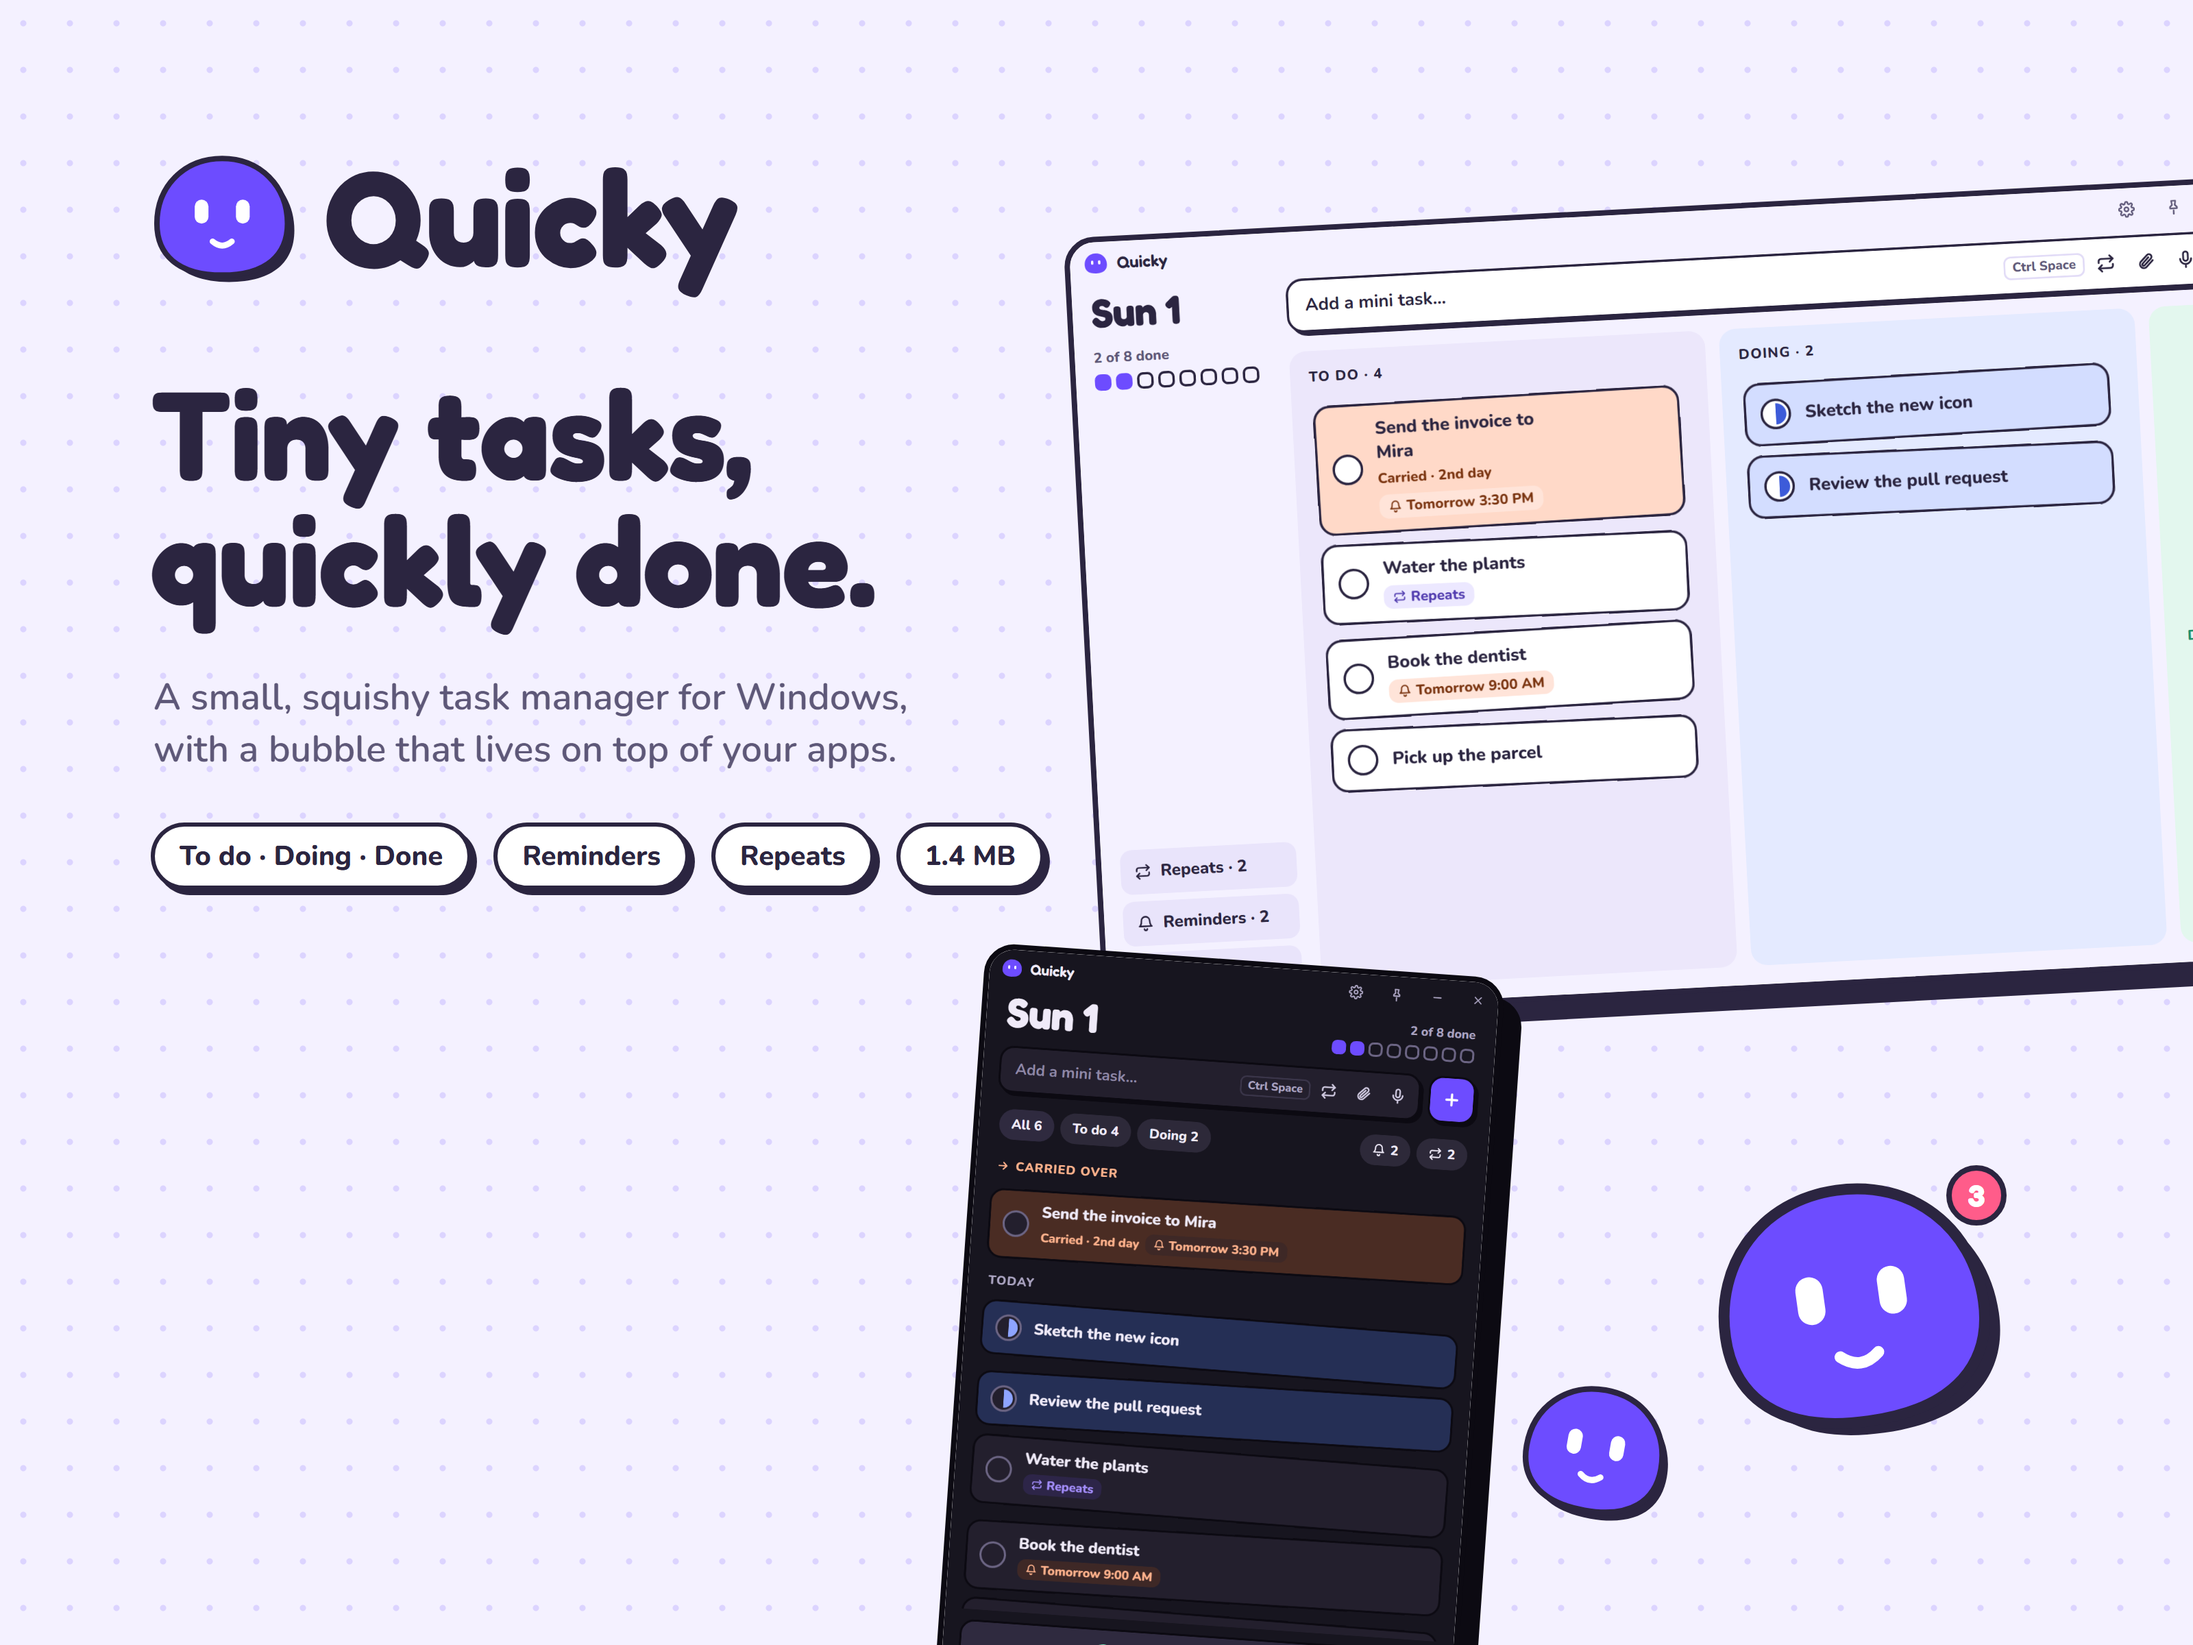
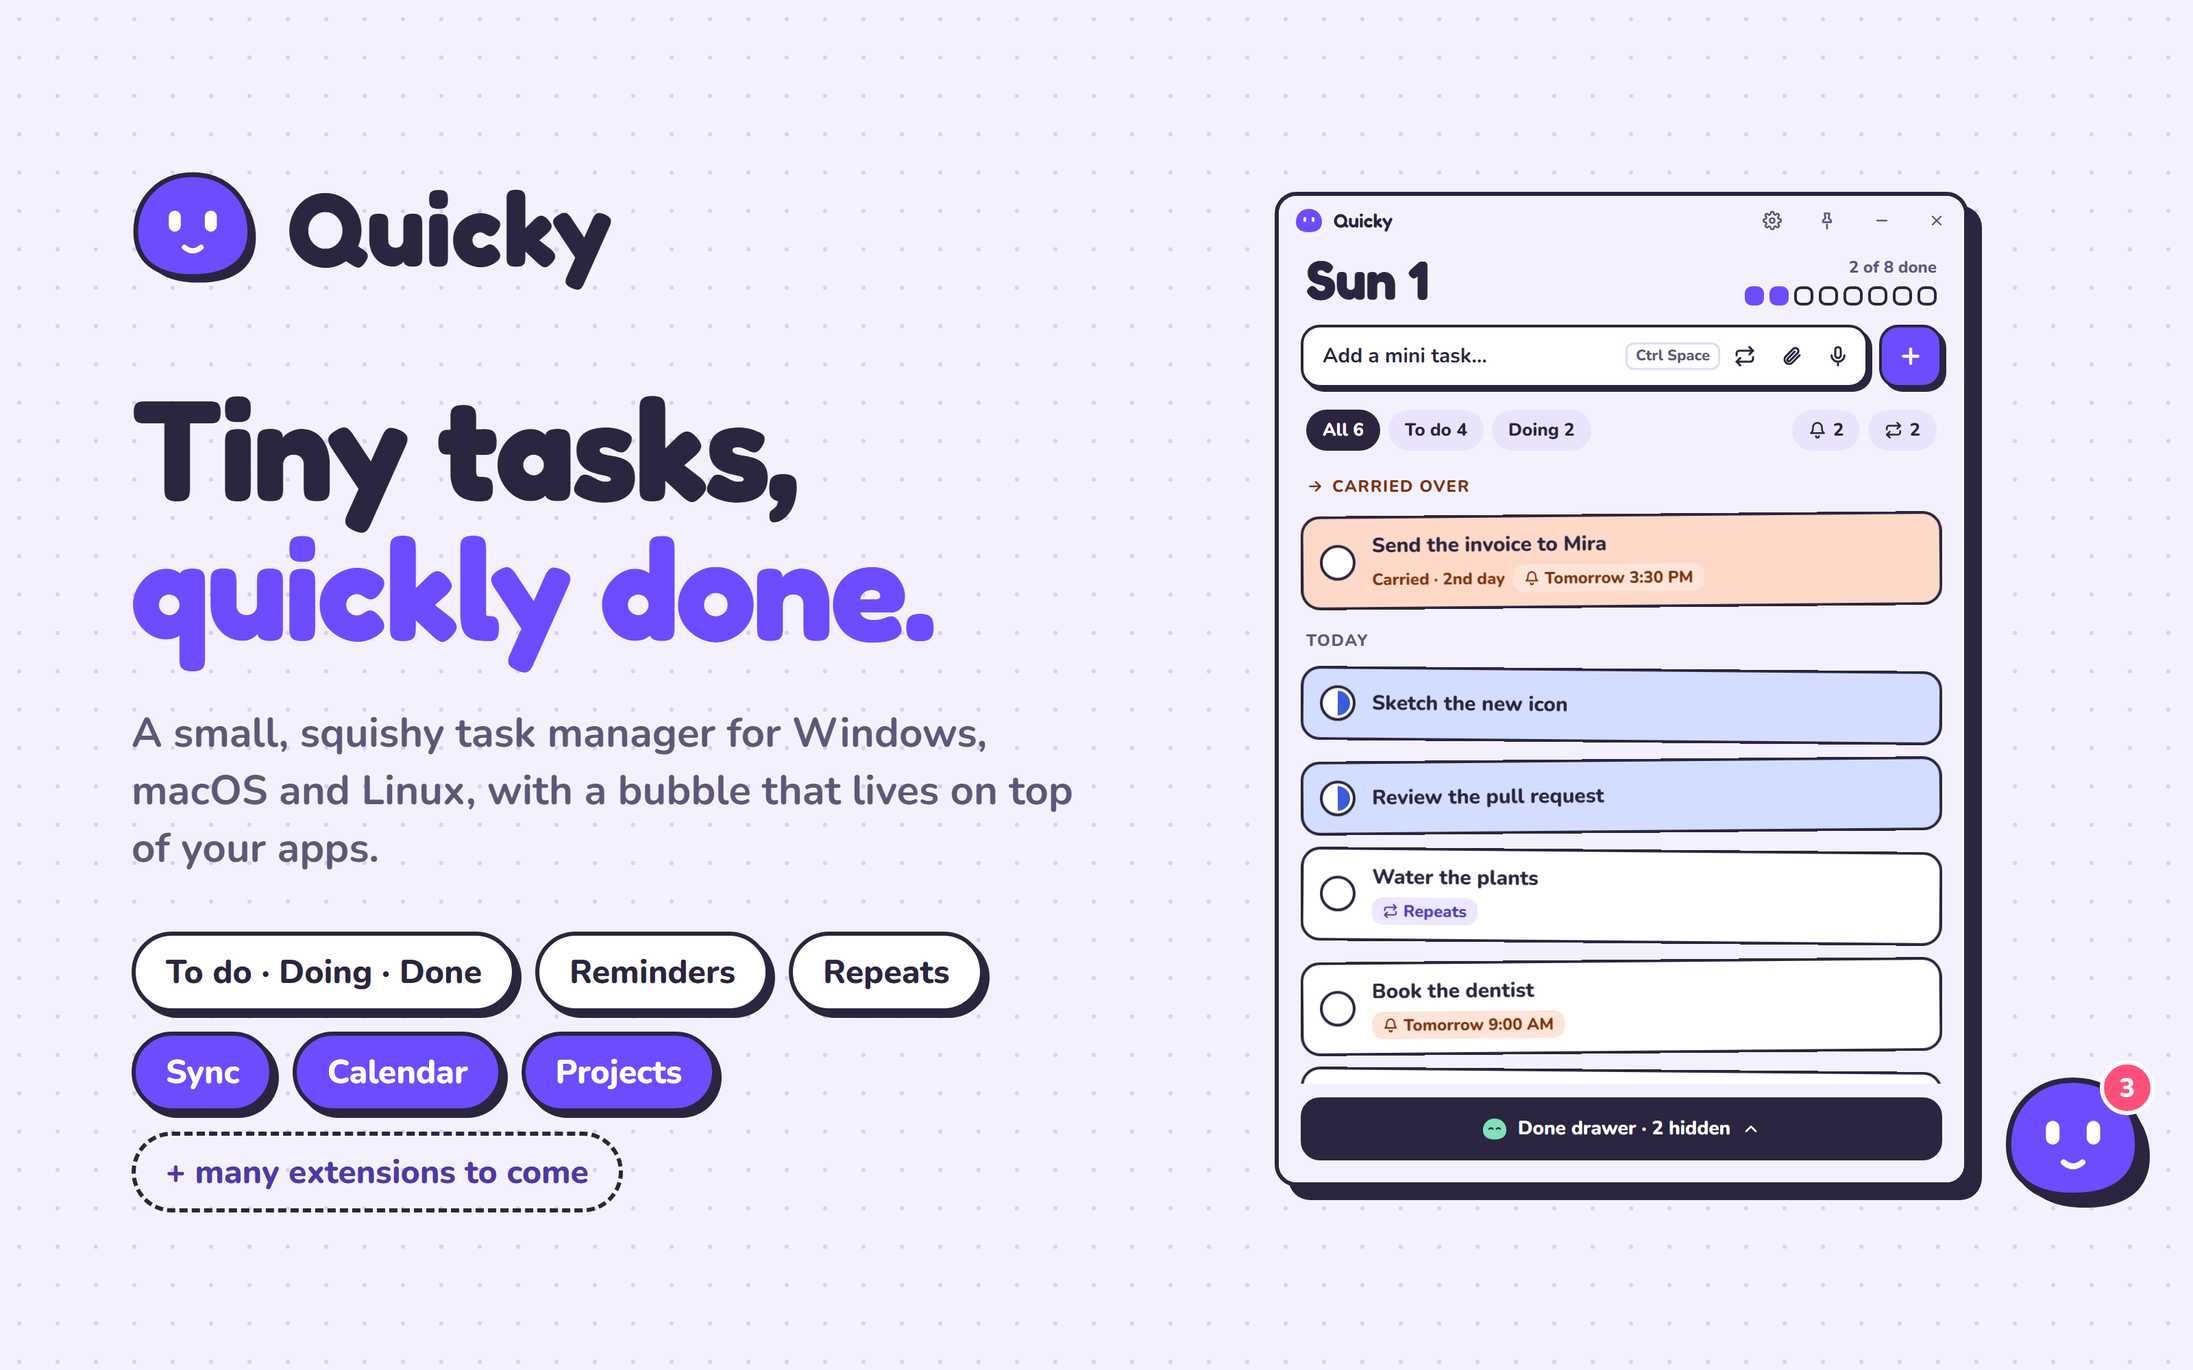
README: real-size cover, the site, sync and extensions
- New cover: the app window and bubble at their real size, current features
- Links quicky.pistasspot.com
- Describes online sync and the Projects and Calendar extensions

diff --git a/README.md b/README.md
@@ -1,12 +1,14 @@
 # Quicky
 
-A tiny, cute task manager for Windows, macOS and Linux. Add mini tasks fast, mark them **To do → Doing → Done**, and let unfinished ones roll over to the next day on their own. A little bubble waits on screen, and any app can get its own mini Quicky with a list of its own.
+**[quicky.pistasspot.com](https://quicky.pistasspot.com)**
+
+A tiny, cute task manager for Windows, macOS and Linux. Add mini tasks fast, mark them **To do → Doing → Done**, and let unfinished ones roll over to the next day on their own. A little bubble waits on screen, and any app can get its own mini Quicky with a list of its own. Sign in to keep your tasks the same on every PC, and add extensions for shared calendars and whiteboards.
 
 ![Quicky](.github/cover.png)
 
 ## Install
 
-Open the [latest release](../../releases/latest) (or [Quicky's page on pistasspot.com](https://www.pistasspot.com/project/quicky), which has the same files) and download the file for your system.
+Get it from **[quicky.pistasspot.com](https://quicky.pistasspot.com)**, or open the [latest release](../../releases/latest) and download the file for your system.
 
 - **Windows:** **`Quicky_x.y.z_x64-setup.exe`**. Run it: it installs for your user only, no admin needed, and adds Quicky to the Start menu (and a desktop shortcut). If Windows shows *"Windows protected your PC"*, click **More info**, then **Run anyway**: the installer isn't code-signed yet.
 - **macOS** (11 or newer, Apple silicon and Intel): **`Quicky_x.y.z_universal.dmg`**. Open it and drag Quicky into Applications. Quicky isn't notarized by Apple yet, so the first time you open it macOS says it can't check it for malware: open **System Settings**, **Privacy & Security**, and click **Open Anyway** next to Quicky.
@@ -18,7 +20,7 @@ Or on Windows, from a terminal, with the [GitHub CLI](https://cli.github.com):
 gh release download --repo PISTAfff/quicky --pattern "*-setup.exe" --dir . && ./Quicky_*_x64-setup.exe
 ```
 
-On first launch Quicky asks where to keep your data and creates a `Quicky` folder there (picking a folder that's already called `Quicky`, or one that already holds `quicky.json`, uses it as is). Everything stays on your computer.
+On first launch Quicky asks where to keep your data and creates a `Quicky` folder there (picking a folder that's already called `Quicky`, or one that already holds `quicky.json`, uses it as is). Quicky works offline from that folder; signing in (Settings → Online) also syncs it to your account.
 
 ## Using it
 
@@ -57,6 +59,11 @@ On first launch Quicky asks where to keep your data and creates a `Quicky` folde
 - **Popover, not a background window:** Quicky tucks itself away as soon as you click into another app, and the bubble (and that app's mini) come back. Pin it (📌) to keep it open and on top.
 - **Colours:** Settings (gear in the title bar) has five accents (Grape, Bubblegum, Mint, Tangerine, Ocean) plus a rainbow swatch to pick any colour you like, and Light / Dark / Match the system. The bubble and the taskbar (Dock on macOS) and tray icons follow along.
 - **Tray icon:** left-click opens or hides Quicky, right above the tray. Right-click for *Show* and *Quit*. **Close** only hides Quicky, so Ctrl+Space and the bubble keep working.
+- **Sync:** sign in from Settings → Online and your tasks, repeats, steps, each app's list, attachments (pictures are shrunk before upload; up to 25 MB a file, 500 MB in all) and your colours, sounds and quiet hours stay the same on every PC signed in to the account, live. Changes made on two PCs at once are merged, never lost. *Sync my tasks and settings* turns it off.
+- **Extensions:** Settings → Online → Extensions adds them; open one from there or by right-clicking the bubble → *Extensions*.
+  - **Projects:** a shared whiteboard with task cards, sticky notes, text, shapes and containers, arrows that route themselves around cards (and hop over each other), images and voice notes, with everyone's changes live.
+  - **Calendar:** shared calendars with month and week views, all-day, timed and multi-day events, repeats, colours and notes. Event reminders show on Quicky's own reminder screen. Your tasks with due dates show on it and can be edited there, and any event can become a Quicky task or a card on a board.
+  - Share a board or calendar with its join code; changing the code locks everyone else out again.
 - **Updates:** Quicky checks GitHub for a new version a little after it starts and twice a day, and shows a banner when one is ready. *Update and restart* installs it. Check by hand, or turn the automatic check off, in Settings → Updates.
 
 ## On macOS and Linux
@@ -74,7 +81,7 @@ Everything works the same, with a few differences:
 └ media/2026-11/…      copies of every attachment and voice note
 ```
 
-Put the folder in OneDrive or Dropbox to sync it. Use the folder button in the title bar to open the folder or switch to another one. Switching doesn't move files.
+Signed in with sync on, the same data also lives on Quicky's server, one copy per account. Without an account, put the folder in OneDrive or Dropbox to share it between PCs. Use the folder button in the title bar to open the folder or switch to another one. Switching doesn't move files.
 
 ## Develop
 
